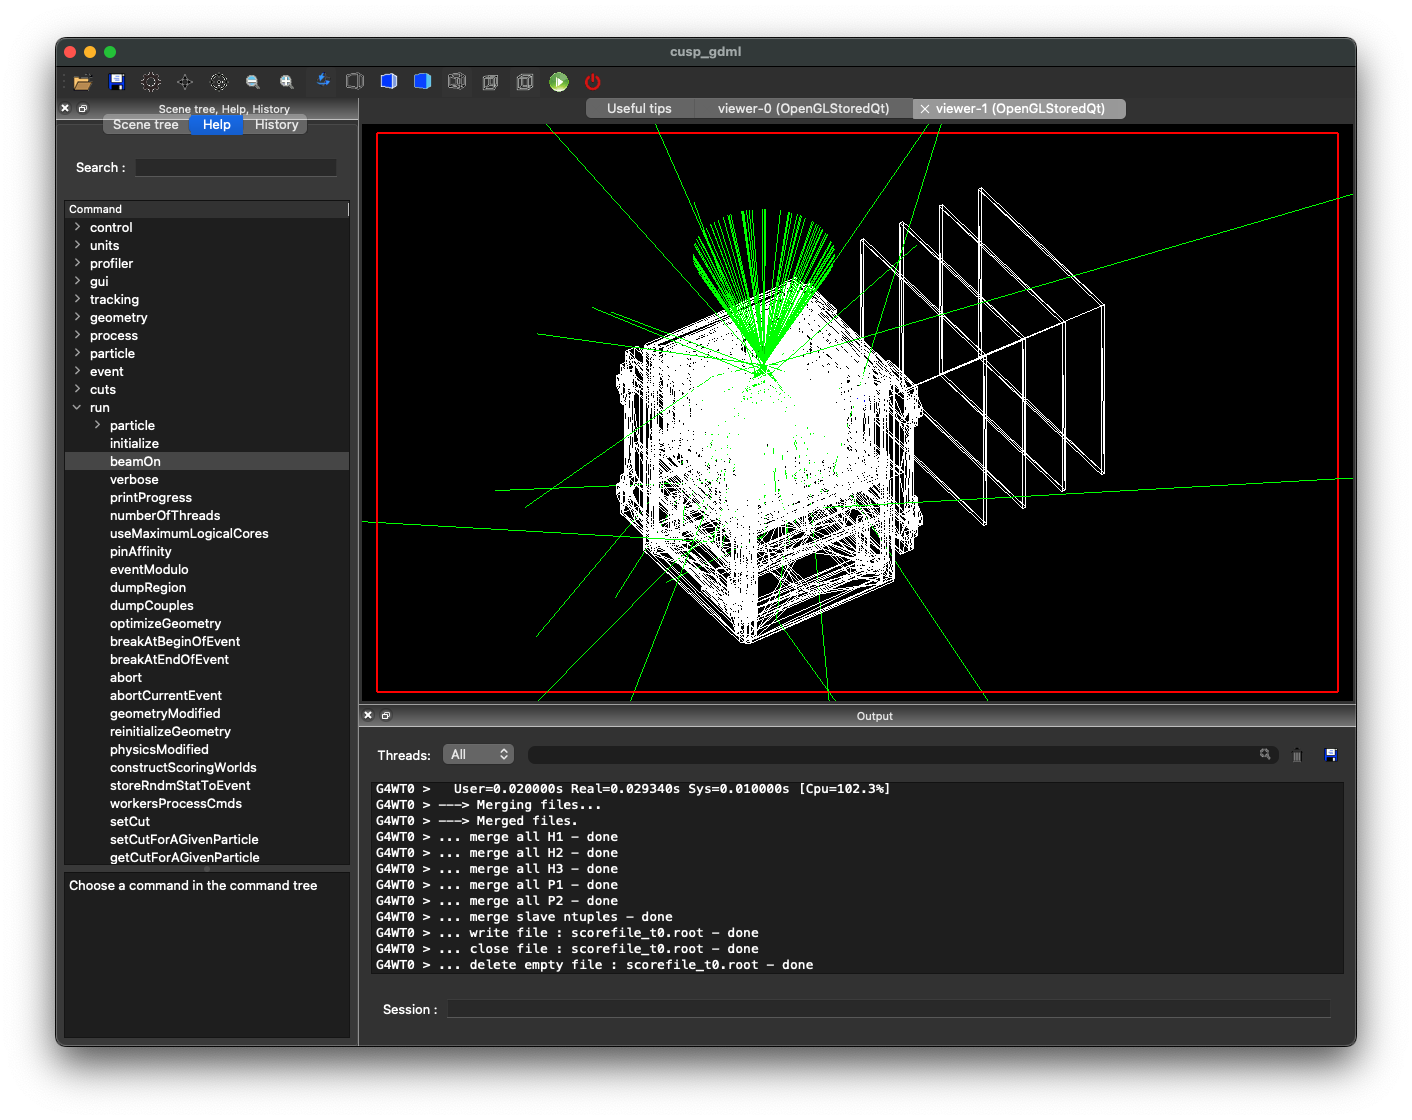
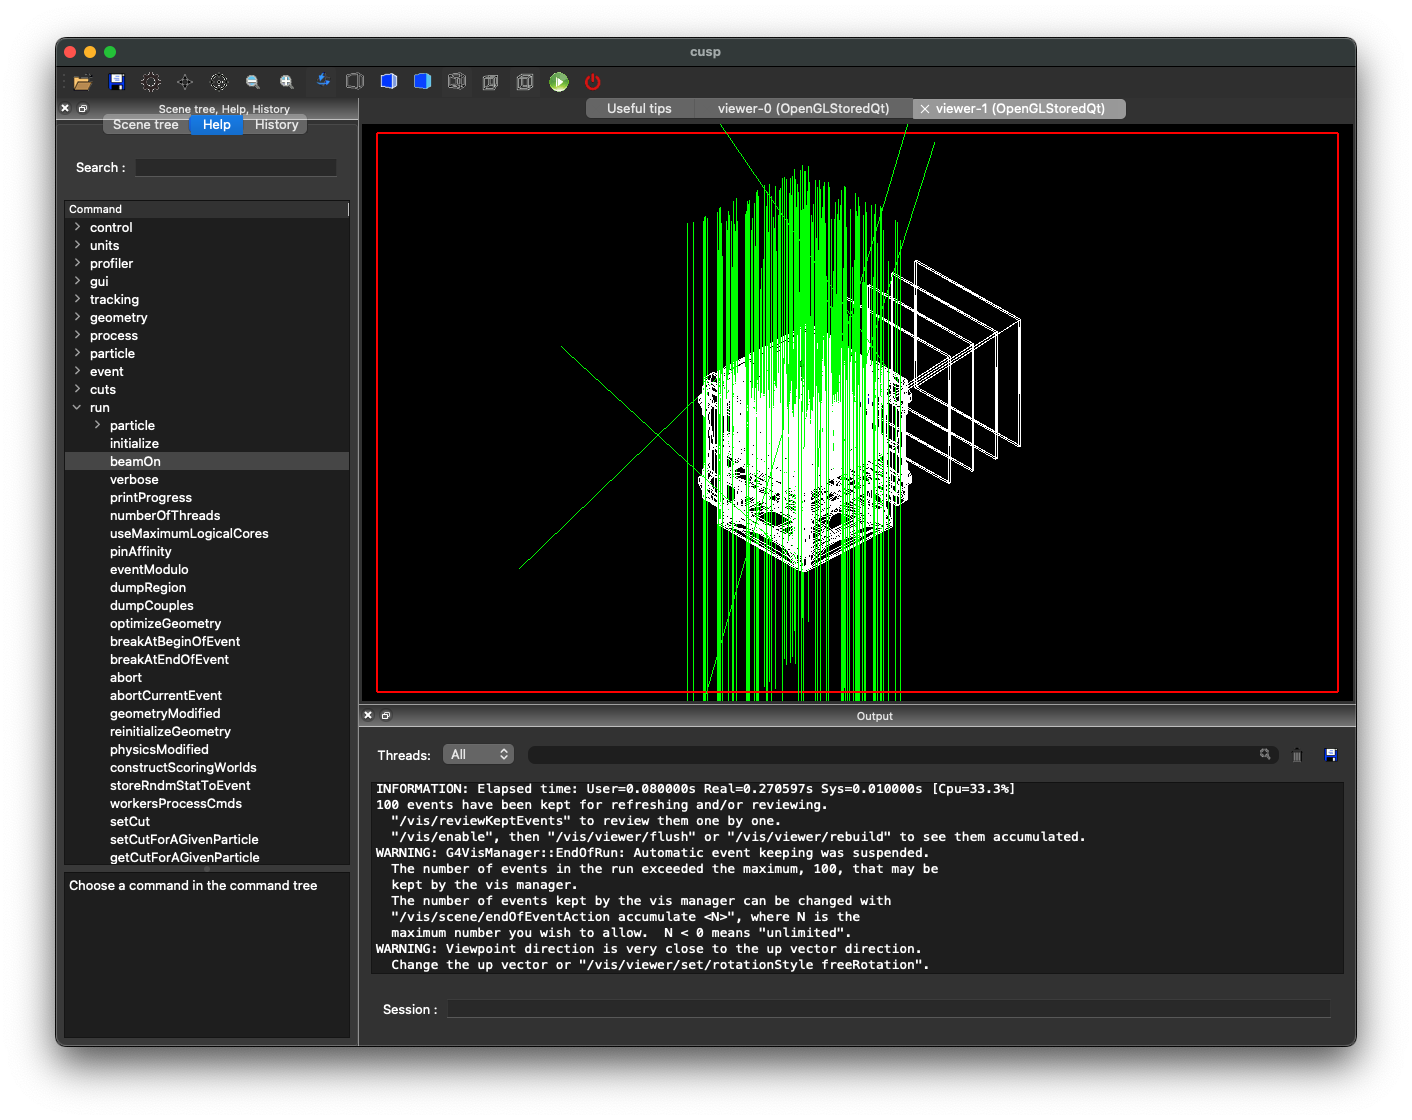
Simulation with GPS source model

Changed region(s): [[0.4363, 0.1562, 0.779, 0.625], [0.2493, 0.6875, 0.7479, 0.875], [0.4674, 0.0312, 0.5297, 0.0625]]

diff --git a/src/PrimaryGeneratorAction.cc b/src/PrimaryGeneratorAction.cc
@@ -1,153 +1,47 @@
 #include "PrimaryGeneratorAction.hh"
+#include "DetectorConstruction.hh"
 
+#include "G4Event.hh"
+#include "G4GeneralParticleSource.hh"
 #include "G4ParticleTable.hh"
 #include "G4ParticleDefinition.hh"
 #include "globals.hh"
 #include "Randomize.hh"
-#include "G4SystemOfUnits.hh"
 
 #include "WriteToFile.hh"
 
-//using namespace CLHEP;
 
-PrimaryGeneratorAction::PrimaryGeneratorAction() {
-    particleGun = new G4ParticleGun(1); // 1 particle per event
-
-    // Get particle definition
-    G4ParticleTable* particleTable = G4ParticleTable::GetParticleTable();
-    G4ParticleDefinition* particle = particleTable->FindParticle("gamma");
-
-    // Set particle properties
-    particleGun->SetParticleDefinition(particle);
-        // Output for debug
-    std::ofstream outputFile("output.txt");
-
-    // Read events from CSV file
-    #ifdef CSV
-       // rsmSource.ReadCSV("events.csv"); // no more needed as rsmSource is a global variable
-    #endif
+// Constructor
+PrimaryGeneratorAction::PrimaryGeneratorAction()
+{
+    particleGun = new G4GeneralParticleSource();
 }
 
-PrimaryGeneratorAction::~PrimaryGeneratorAction() {
+
+// Destructor
+PrimaryGeneratorAction::~PrimaryGeneratorAction()
+{
     delete particleGun;
 }
 
-void PrimaryGeneratorAction::GenerateVertex(G4double source_h, G4double source_r, G4double source_alpha, G4ThreeVector &vertex_center, G4ThreeVector& vertex) {
-    G4double y = source_h + 4.*cm ; // TdDO: check the exact position of the detector surface (detector center = 10.5*cm?)
-    G4double z = source_r * std::cos(source_alpha); 
-    G4double x = source_r * std::sin(source_alpha);
-    vertex_center.setX(x);
-    vertex_center.setY(y);
-    vertex_center.setZ(z);
 
-    G4double beam_size1{10.*cm}, beam_size2{10.*cm};
-    G4double x_move = -beam_size1/2. + beam_size1*G4UniformRand();
-    G4double y_move = 0;
-    G4double z_move = -beam_size2/2. + beam_size2*G4UniformRand();
-    G4ThreeVector translation(x_move, y_move, z_move);
+void PrimaryGeneratorAction::GeneratePrimaries(G4Event* anEvent)
+{
+    particleGun -> GeneratePrimaryVertex(anEvent);
 
-    vertex = vertex_center + translation;
-}
-
-void PrimaryGeneratorAction::GenerateDirection(G4double detector_h, G4ThreeVector vertex, G4ThreeVector& direction) {
-    // Define the center of the detector surface
-    G4ThreeVector detector_center;
-    detector_center.setX(0.);
-    detector_center.setY(detector_h);
-    detector_center.setZ(0.);
-
-    direction = detector_center - vertex;
-
-    // Normalize the direction vector
-    direction = direction.unit();
-}
-
-void PrimaryGeneratorAction::GenerateSquare(G4double number) {
-    G4cout << "Hello " << number * number << G4endl;
-}
-
-void PrimaryGeneratorAction::GeneratePrimaries(G4Event* anEvent) {   
-    
-    // *** Step 0: Get the event 
-
-    static size_t currentEventIndex = 0;
-
-    #ifdef CSV
-       const std::vector<EventData>& events = gRsmSource->GetEvents();
-
-       if (currentEventIndex >= events.size()) {
-           G4cerr << "No more events in the CSV file." << G4endl;
-           return;
-       }
-       // This statement accesses  events[0] and then increments the index to 1, and so on.
-       const EventData& event = events[currentEventIndex++];
-    #endif 
-
-    #ifndef CSV
-       // This statement accesses the event 
-       EventData event = gRsmSource->GenerateEvent(60.*keV, 0.01); // 0.01 photons per second
-    #endif
-
-    // *** Step 1: retrieve the event data
-
-    G4int eventID = event.event_id; // This can be also obtained from currentEventIndex or anEvent->GetEventID()
-    G4double time = event.time;
-    G4double angle = event.angle;
-    G4double pol_x = event.pol_x;
-    G4double pol_y = event.pol_y;
-    G4double pol_z = event.pol_z;
-    G4double energy = event.energy;
-
-    // *** Step 2: Generate the primary vertex using the event data
-
-    // Set the energy of the particle
-    particleGun->SetParticleEnergy(energy); 
-    // Set the source vertex
-    constexpr G4double source_h = 6.*cm;
-    constexpr G4double source_r = 3.*cm;
-    G4ThreeVector vertex_center, vertex;
-    GenerateVertex(source_h, source_r, angle, vertex_center, vertex);    
-    //particleGun->SetParticlePosition(vertex);
-    particleGun->SetParticlePosition(vertex_center); // FOR TESTING ONLY
-    // Set the source direction
-    G4ThreeVector direction;
-    constexpr G4double detector_h = 4.*cm; // The height of the detector surface
-    GenerateDirection(detector_h, vertex_center, direction);
-    particleGun->SetParticleMomentumDirection(direction);
-    // Set the source polarization
-    G4ThreeVector pseudo_polarization(pol_x, pol_y, pol_z);
-    G4ThreeVector polarization = pseudo_polarization.cross(direction);
-    particleGun->SetParticlePolarization(polarization.unit());
-
-    particleGun->GeneratePrimaryVertex(anEvent);
-
-    // Choose an arbitrary vector that is not parallel to the direction vector (FOR TESTING ONLY)   
-    /** G4ThreeVector arbitraryVector(1.0, 0.0, 0.0);
-    if (std::abs(direction.dot(arbitraryVector)) > 0.9) {
-        arbitraryVector = G4ThreeVector(0.0, 1.0, 0.0);
-    }
-    // Use the cross product to find a perpendicular vector
-    G4ThreeVector polarization = direction.cross(arbitraryVector);    
-    // Normalize the polarization vector to ensure it has unit length
-    polarization = polarization.unit();
-    // Define the polarization vector
-    particleGun->SetParticlePolarization(polarization); **/
-    
+    // Retrieve the primary vertex
     #ifdef DEBUG
-    std::ostringstream strValue;
-    //strValue << vertex.getX()/cm << " " << vertex.getY()/cm << " " << vertex.getZ()/cm;
-    //testOutput.print(strValue.str());
-    // The event data from the csv file
-    //strValue << "angle: " << angle << " Energy: " << " " << energy;
-    // Generate and print new events
-    //EventData new_event = rsmSource.GenerateEvent();
-    strValue << "Event ID: " << event.event_id << ", "
-        << "Time: " << event.time << ", "
-        << "Angle: " << event.angle << ", "
-        << "Pol_x: " << event.pol_x << ", "
-        << "Pol_y: " << event.pol_y << ", "
-        << "Pol_z: " << event.pol_z << ", "
-        << "Energy: " << event.energy;
-    testOutput.print(strValue.str());
+    G4int eventID = anEvent->GetEventID();
+    G4PrimaryVertex* primaryVertex = anEvent->GetPrimaryVertex();
+    // Retrieve the primary particle
+    G4PrimaryParticle* primaryParticle = primaryVertex->GetPrimary();
+    // Retrieve the energy
+    G4double energy = primaryParticle->GetKineticEnergy()/CLHEP::keV;
+    // Print the energy
+    //testOutput.print("The energy is:");
+    testOutput.print(std::to_string(eventID));
+    testOutput.print(std::to_string(energy));
     #endif
 }
+
+
